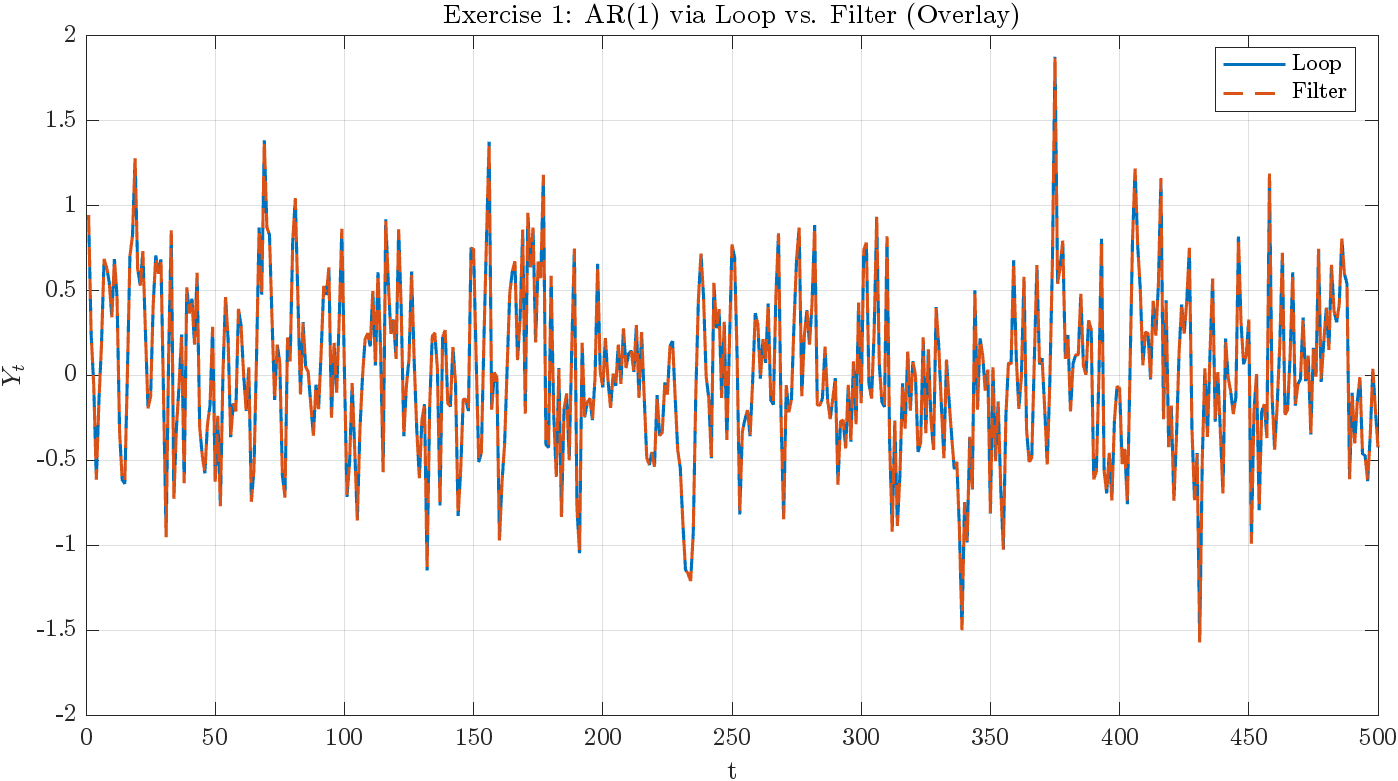
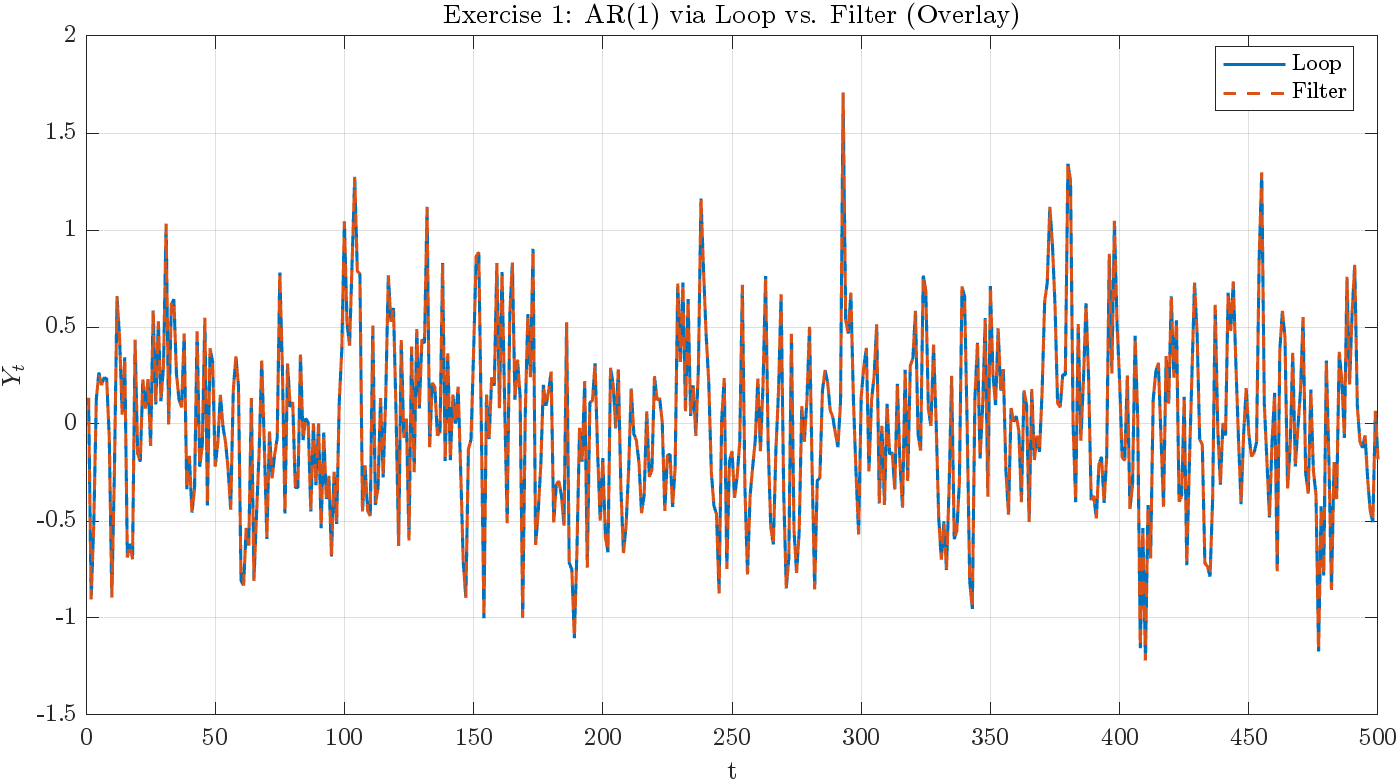
Fix OLS AR(1) simulation degrees of freedom and comments
Corrects the degrees of freedom in OLS variance estimation for AR(1) simulations in Exercises 3 and 4, ensuring unbiased standard errors and t-statistics. Improves code comments and variable naming for clarity, and updates figure labeling for LaTeX compatibility. Also updates output figures and binary files as a result of these changes.

Changed region(s): [[0.0308, 0.1229, 1.0, 0.8297], [0.0308, 0.8912, 0.0615, 0.9219], [0.0308, 0.1536, 0.0615, 0.1844]]

diff --git a/ps1/pset1.m b/ps1/pset1.m
@@ -26,12 +26,12 @@ exportFig = @(fh, name) exportgraphics(fh, fullfile(outdir, name), 'ContentType'
 % Simulate AR(1) by loop and by filter, and compare
 % Y_t = mu + phi*(Y_{t-1} - mu) + eps_t,  eps_t ~ N(0, sigma2)
 
-rng(12345,'twister');              % Reproducibility for Ex.1
+rng(20532,'twister');       % Reproducibility for Ex.1
 T      = 500;
 phi1   = 0.4;
 sigma2_1 = 0.2;
-mu1    = 0;        % E[Y_t] = 0
-Y0     = 0;        % matching starting condition for both methods
+mu1    = 0;                 % E[Y_t] = 0
+Y0     = 0;                 % matching starting condition for both methods
 
 % Use the SAME innovation sequence for both methods
 eps1 = sqrt(sigma2_1) * randn(T,1);
@@ -124,28 +124,31 @@ for r = 1:R
     TT   = T + B;
     eps3 = sqrt(sigma2_3) * randn(TT,1);
 
-    % Start at the mean (mu3) to reduce transient; combine with burn-in
+    % Start at the mean (mu3) + burn-in
     Ytmp = simulate_ar1_loop(TT, phi3, sigma2_3, mu3, mu3, eps3);
-    Y    = Ytmp(B+1:end);
+    Y    = Ytmp(B+1:end);                 % keep last T observations
 
-    % OLS estimate of phi in Y_t = phi * Y_{t-1} + u_t (demean not required if mean=0)
+    % OLS in Y_t = phi * Y_{t-1} + u_t  (no intercept; mean is zero)
     ylag = Y(1:end-1);
     yt   = Y(2:end);
-    X    = ylag;      % no constant, as mean is zero in DGP
+    X    = ylag;                           % (T-1) x 1
     bhat = (X' * X) \ (X' * yt);
     uhat = yt - X * bhat;
-    s2   = (uhat' * uhat) / (T - 1);            % sigma_u^2 (df = T-1)
-    se   = sqrt( s2 / (X' * X) );
+
+    % --- Correct degrees of freedom: nu = (T-1) - 1 = T - 2 ---
+    nu   = (T - 1) - 1;
+    s2   = (uhat' * uhat) / nu;            % unbiased sigma_u^2
+    se   = sqrt( s2 / (X' * X) );          % std error of bhat
 
     phi_hat(r) = bhat;
-    tstat(r)   = (bhat - 0) / se;               % test H0: phi = 0
+    tstat(r)   = bhat / se;                % test H0: phi = 0
 end
 
 % Rejection frequency at 5%
 if exist('tinv','file')
-    tcrit = tinv(0.975, T-1);
+    tcrit = tinv(0.975, nu);
 else
-    tcrit = 1.96; % approximation for moderate T
+    tcrit = 1.96;                          % normal approx
 end
 reject = mean(abs(tstat) > tcrit);
 
@@ -167,17 +170,16 @@ xlabel('$\hat{\phi}$'); ylabel('Density')
 title(['Exercise 3: Empirical Distribution of OLS ', '$\hat{\phi}$', ' (R=', num2str(R), ', T=', num2str(T), ')'], 'Interpreter','latex')
 exportFig(fh5,'ex3_phi_hat_hist.png');
 
-
 %% ===================== Exercise 4 =====================
-% Empirical distribution of OLS AR(1) with phi=0.9 over varying T
+% Empirical distribution of OLS AR(1) with phi = 0.9 over varying T
 
-rng(45678,'twister');              % Reproducibility for Ex.4
-phi  = 0.9;
-sigma2_4 = 1.0;        % explicit
-mu   = 0;
-Ts   = [50, 100, 200, 1000];
-R    = 1000;
-B    = 500;            % burn-in to reduce dependence on starting value
+rng(45678,'twister');                % Reproducibility for Ex.4
+phi      = 0.9;
+sigma2_4 = 1.0;                      % Var(eps_t)
+mu       = 0;
+Ts       = [50, 100, 200, 1000];
+R        = 1000;
+B        = 500;                      % burn-in to reduce dependence on start
 
 E4_summary = table('Size',[numel(Ts) 5], ...
     'VariableTypes',{'double','double','double','double','double'}, ...
@@ -185,51 +187,61 @@ E4_summary = table('Size',[numel(Ts) 5], ...
 
 for iT = 1:numel(Ts)
     T = Ts(iT);
+    nu = T - 2;                      % df for regression with (T-1) rows, 1 slope
+
     phi_hat = zeros(R,1);
     tstat   = zeros(R,1);
 
     for r = 1:R
+        % --- simulate AR(1) with burn-in
         TT   = T + B;
         eps  = sqrt(sigma2_4) * randn(TT,1);
         Yall = simulate_ar1_loop(TT, phi, sigma2_4, mu, mu, eps);
-        Y    = Yall(B+1:end);
+        Y    = Yall(B+1:end);        % keep last T observations
 
-        ylag = Y(1:end-1); yt = Y(2:end);
-        X = ylag;                     % no constant, mean=0
-        bhat = (X' * X) \ (X' * yt);
-        uhat = yt - X*bhat;
-        s2   = (uhat' * uhat) / (T - 1);
-        se   = sqrt( s2 / (X' * X) );
-        tstat(r) = bhat / se;         % H0: phi=0
+        % --- OLS: Y_t = phi * Y_{t-1} + u_t (no intercept since mu=0)
+        ylag = Y(1:end-1); 
+        yt   = Y(2:end);
+        X    = ylag;                  % (T-1)-by-1 regressor
+        XX   = X' * X;
+
+        bhat = XX \ (X' * yt);
+        uhat = yt - X * bhat;
+
+        % --- correct finite-sample variance and t-stat
+        s2 = (uhat' * uhat) / nu;     % unbiased residual variance: RSS/(T-2)
+        se = sqrt( s2 / XX );         % std error of slope
+        tstat(r)   = bhat / se;       % test H0: phi = 0
         phi_hat(r) = bhat;
     end
 
-    % Summaries
-    m  = mean(phi_hat);
-    sd = std(phi_hat);
+    % --- Monte Carlo summaries for this T
+    m    = mean(phi_hat);
+    sd   = std(phi_hat);
     bias = m - phi;
+
     if exist('tinv','file')
-        tcrit = tinv(0.975, T-1);   % two-sided 5%
+        tcrit = tinv(0.975, nu);      % two-sided 5% test against H0: phi = 0
     else
-        tcrit = 1.96;
+        tcrit = 1.96;                 % normal approx
     end
     rej = mean(abs(tstat) > tcrit);
 
     E4_summary{iT,:} = [T, m, sd, bias, rej];
 
-    % Plot histogram for this T
+    % --- Histogram for this T
     fh = figure('Position',[100 100 840 420]);
     histogram(phi_hat, 40, 'Normalization','pdf'); hold on; grid on
-    xline(phi, '--', 'True $\phi=0.9$', 'LabelVerticalAlignment','bottom');
-    xline(m,  '-', '$\mathrm{mean}(\hat{\phi})$', 'LabelVerticalAlignment','bottom');
-    xlabel('$\hat{\phi}$'); ylabel('Density')
-    title(['Exercise 4: OLS on AR(1), ', '$\phi=0.9$', ' (T=', num2str(T), ', R=', num2str(R), ')'], 'Interpreter','latex')
+    xline(phi, '--', 'True $\phi=0.9$', 'LabelVerticalAlignment','bottom', 'Interpreter','latex');
+    xline(m,  '-',  '$\mathrm{mean}(\hat{\phi})$', 'LabelVerticalAlignment','bottom', 'Interpreter','latex');
+    xlabel('$\hat{\phi}$', 'Interpreter','latex'); 
+    ylabel('Density', 'Interpreter','latex');
+    title(sprintf('Exercise 4: OLS on AR(1), $\\phi=0.9$ (T=%d, R=%d)', T, R), 'Interpreter','latex');
     exportFig(fh, sprintf('ex4_hist_T%d.png', T));
 end
 
 % Save table
 writetable(E4_summary, fullfile(outdir,'ex4_summary.csv'));
-
 
 %% ===================== Exercise 5 =====================
 % OLS of x_t on x_{t-1} when x_t is MA(1) with theta=0.6
